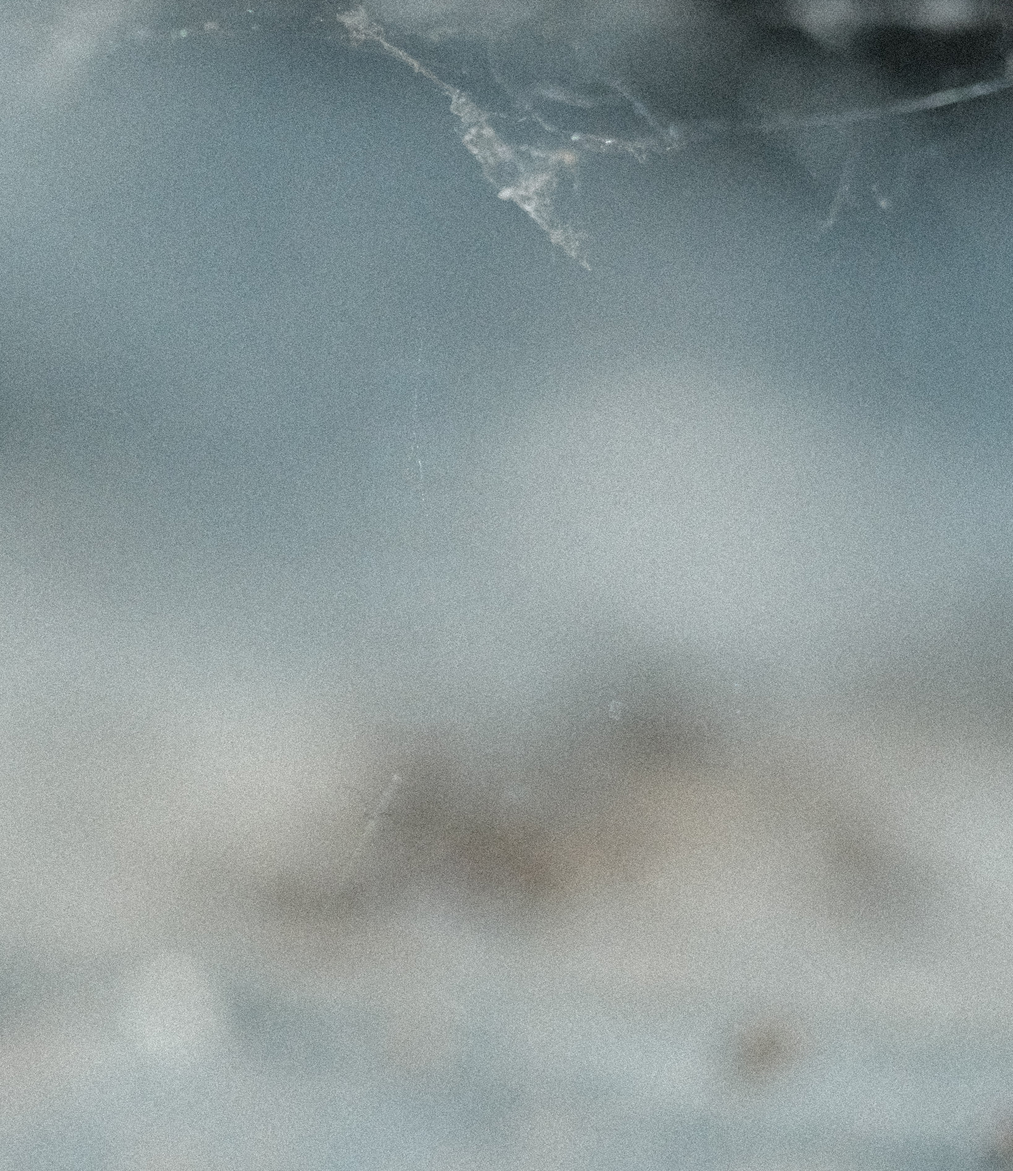
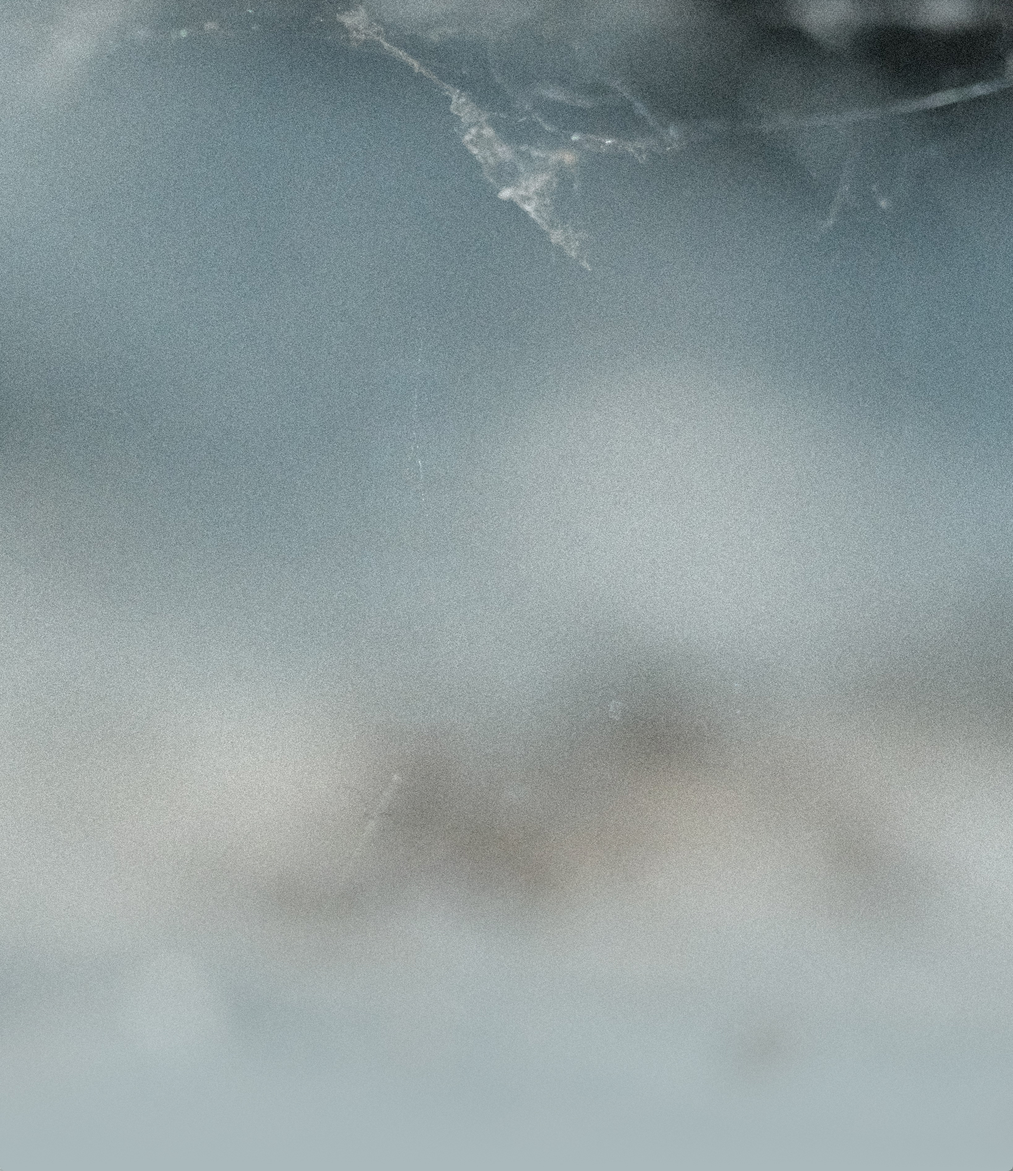
background image update

Changed region(s): [[0.0, 0.8411, 1.0, 1.0], [0.467, 0.7165, 0.5604, 0.7788], [0.2802, 0.7476, 0.3736, 0.8099]]

diff --git a/_sass/faculty.scss b/_sass/faculty.scss
@@ -1,6 +1,6 @@
-$backgroundc: #cfcfcf;
+$backgroundc: #aab9bc;
 $maincolor: #000000;
-$accent: #755d4a;
+$accent: #7c634e;
 $accent1: #309a08;
 $lightcolor: #5e71af;
 $midcolor: #988374;
@@ -34,6 +34,8 @@ body {
   background-repeat: no-repeat;
   background-attachment: fixed;
   background-image: url("/assets/images/bg3.jpg");
+  //background-blend-mode: screen;
+  /* animation: gradient 15sease infinite; */
   line-height: 1.5em;
   margin: 0 auto;
   padding: 2em;
@@ -41,19 +43,18 @@ body {
   flex-direction: column;
   text-transform: uppercase;
 
+
   @media only screen and (max-width: 600px) {
-    background-attachment: scroll;
-    max-width: 100vw;
-    background-size: cover;  // ← change from contain to cover
-    background-position: center center;
+    background-attachment: scroll; /* Changed from fixed to scroll for mobile */
+    max-width: 100vw; /* Use full width on mobile */
+    background-size: contain; /* Changed from cover to contain to prevent zooming in too much */
+    background-position: center top; /* Position from the top to show more of the image */
     min-height: 100vh;
-    min-height: -webkit-fill-available;
     height: auto;
     padding: 1em;
+
   }
 }
-
-
 
 ::selection {
   background: $maincolor;
